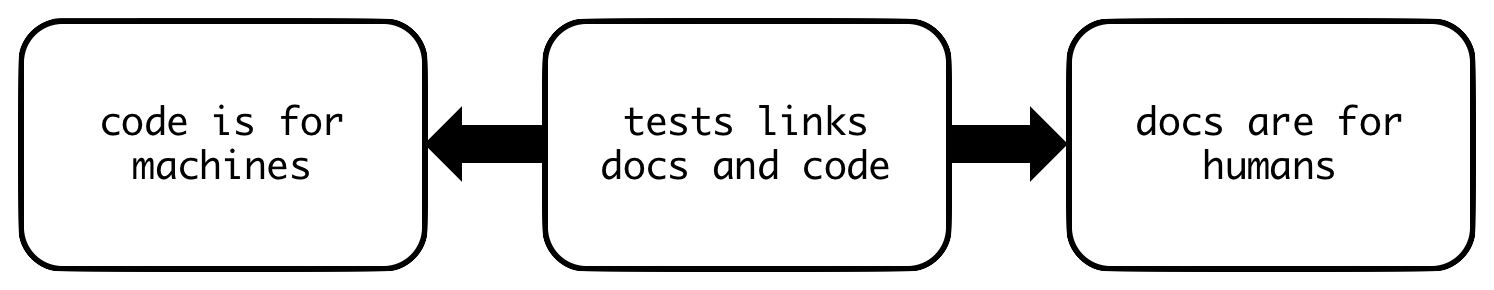
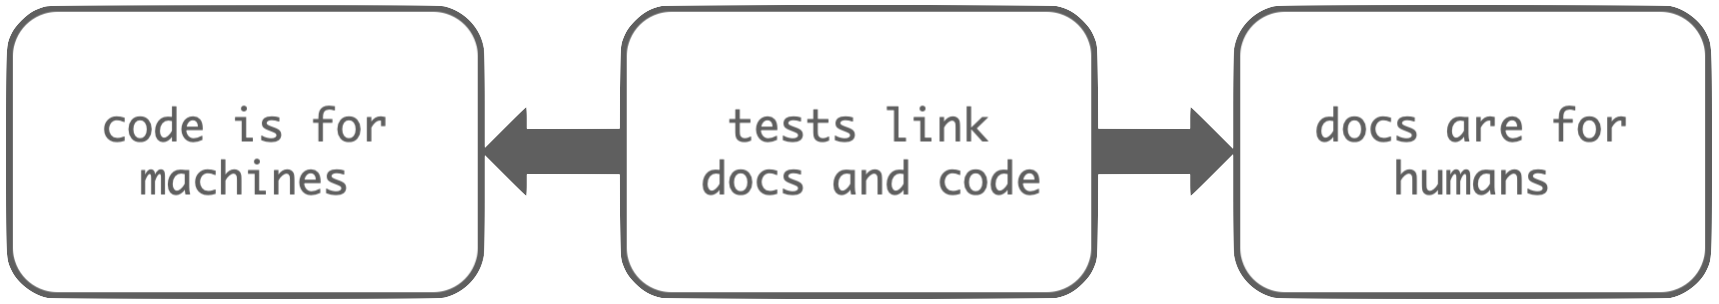
new theme (created by auxilium)

diff --git a/doc/sphinx/conf.py b/doc/sphinx/conf.py
@@ -11,6 +11,10 @@
 # License:  Apache License 2.0 (see LICENSE file)
 
 import os
+import sys
+
+sys.path.extend(('..', '../..',  '../../auxilium'))
+
 
 if os.getcwd().find('readthedocs') < 0:
     pkg = __import__(os.getcwd().split(os.sep)[-3])
@@ -33,6 +37,7 @@ rst_prolog = replacements_str(_replacements)
 # extensions coming with Sphinx (named 'sphinx.ext.*') or your custom
 # ones.
 extensions = [
+    'karma_sphinx_theme',
     'sphinx_rtd_theme',
     'sphinx.ext.autodoc',
     # 'sphinx.ext.autosectionlabel',
@@ -113,6 +118,8 @@ add_module_names = True
 # -- Options for HTML output ----------------------------------------------
 
 html_theme = 'sphinx_rtd_theme'
+html_theme = 'pyramid'
+html_theme = 'karma_sphinx_theme'
 html_logo = 'logo.png'
 # html_theme_options = {}
 # html_static_path = ['_static']

diff --git a/README.rst b/README.rst
@@ -1,31 +1,26 @@
 
+.. image:: ../pix/logo.png
+
 Python library *auxilium*
 -------------------------
 
 |codeship|_ |readthedocs|_ |license|_ |github_version|_ |pip_version|_
 |py_version|_ |pypi_frequency|_ |pypi_downloads|_
 
-
 .. |codeship| image:: https://img.shields.io/codeship/5b8cc2e0-ac1d-0137-31a2-06d5e6117547/master.svg
 .. _codeship: https://codeship.com//projects/362165
-
-
 
 .. |readthedocs| image:: https://img.shields.io/readthedocs/auxilium
 .. _readthedocs: http://auxilium.readthedocs.io
 
-
 .. |license| image:: https://img.shields.io/github/license/sonntagsgesicht/auxilium
 .. _license: https://github.com/sonntagsgesicht/auxilium/raw/master/LICENSE
-
-
 
 .. |github_version| image:: https://img.shields.io/github/release/sonntagsgesicht/auxilium?label=github
 .. _github_version: https://github.com/sonntagsgesicht/auxilium/releases
 
 .. |pip_version| image:: https://img.shields.io/pypi/v/auxilium
 .. _pip_version: https://pypi.org/project/auxilium/
-
 
 .. |py_version| image:: https://img.shields.io/pypi/pyversions/auxilium
 .. _py_version: https://pypi.org/project/auxilium/
@@ -102,9 +97,9 @@ Code, Documentation and Tests
 
 Modern software development comes as a triple of
 
-   .. image:: ../pix/code-test-doc.png
+.. image:: ../pix/code-test-doc.png
 
-   .. :alt: **code is for machines** // **tests links docs and code** // **docs are for humans**
+.. :alt: **code is for machines** // **tests links docs and code** // **docs are for humans**
 
    * The **code** is the actual software program or library which can executed or invoked.
 
